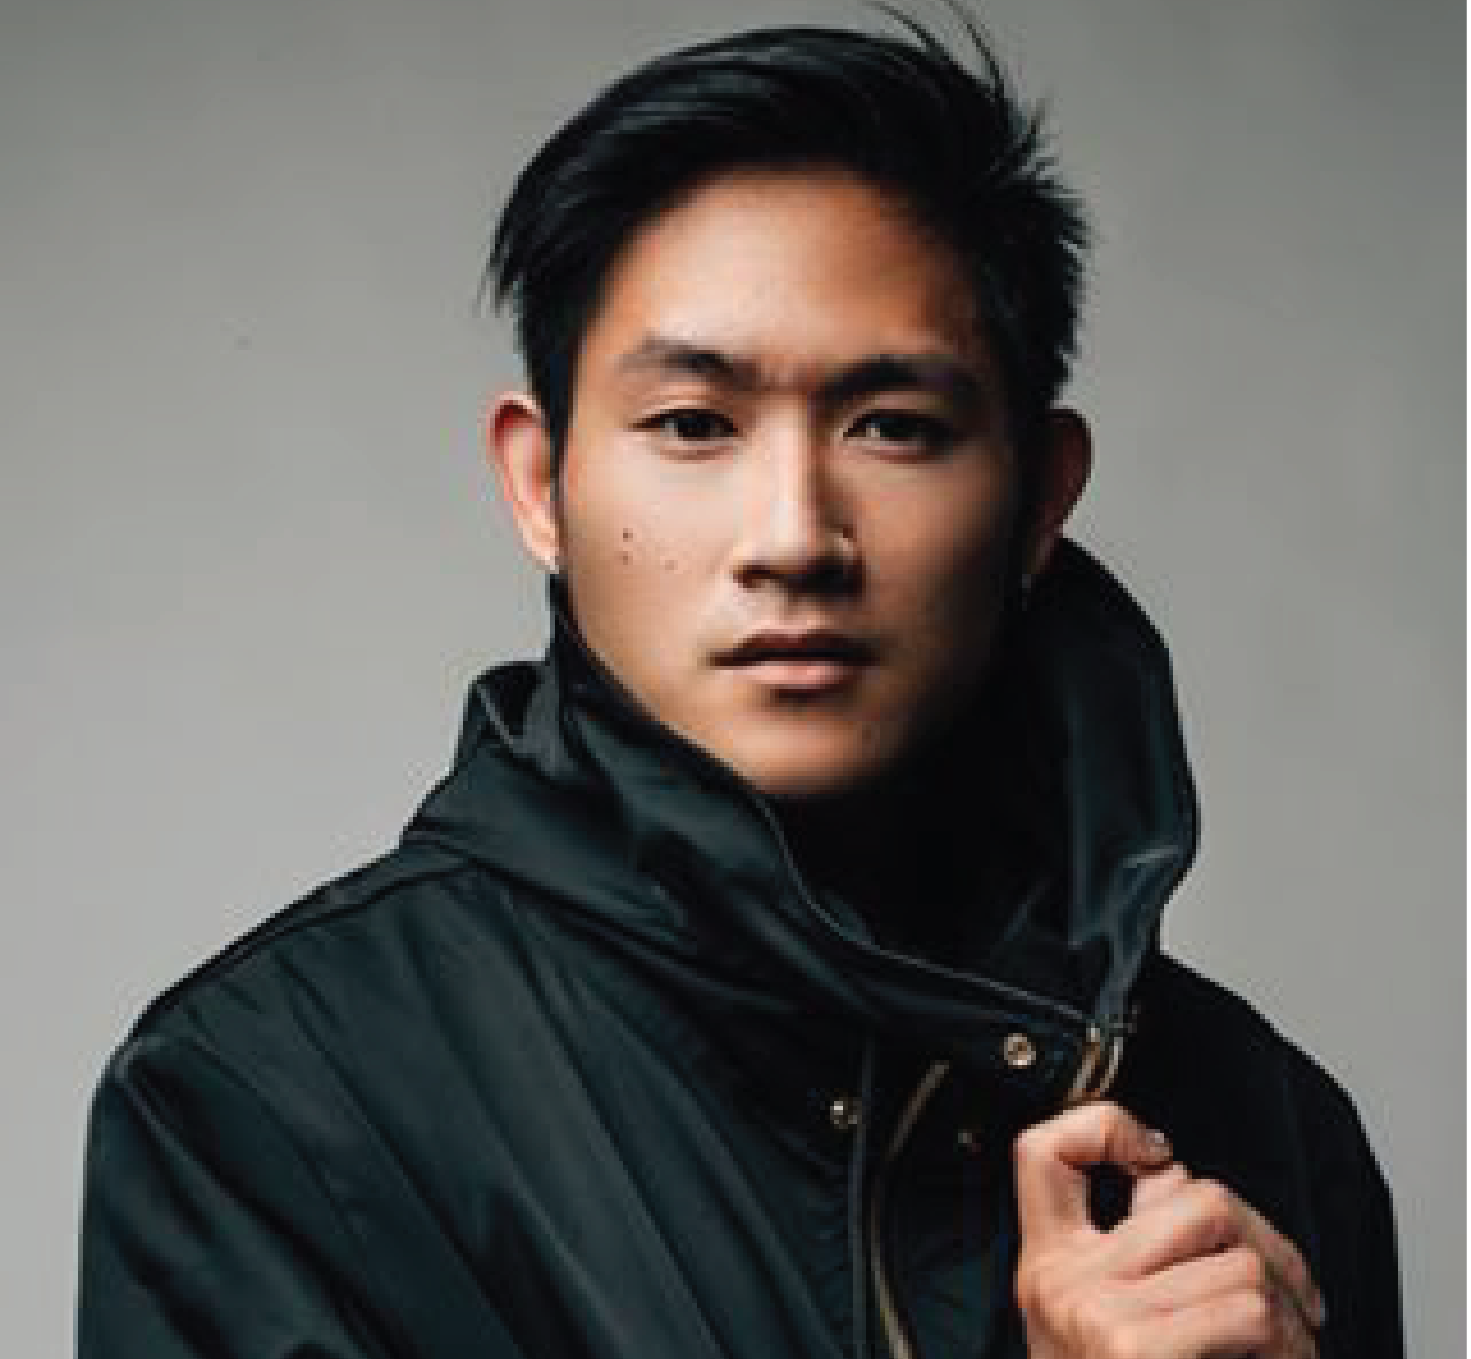
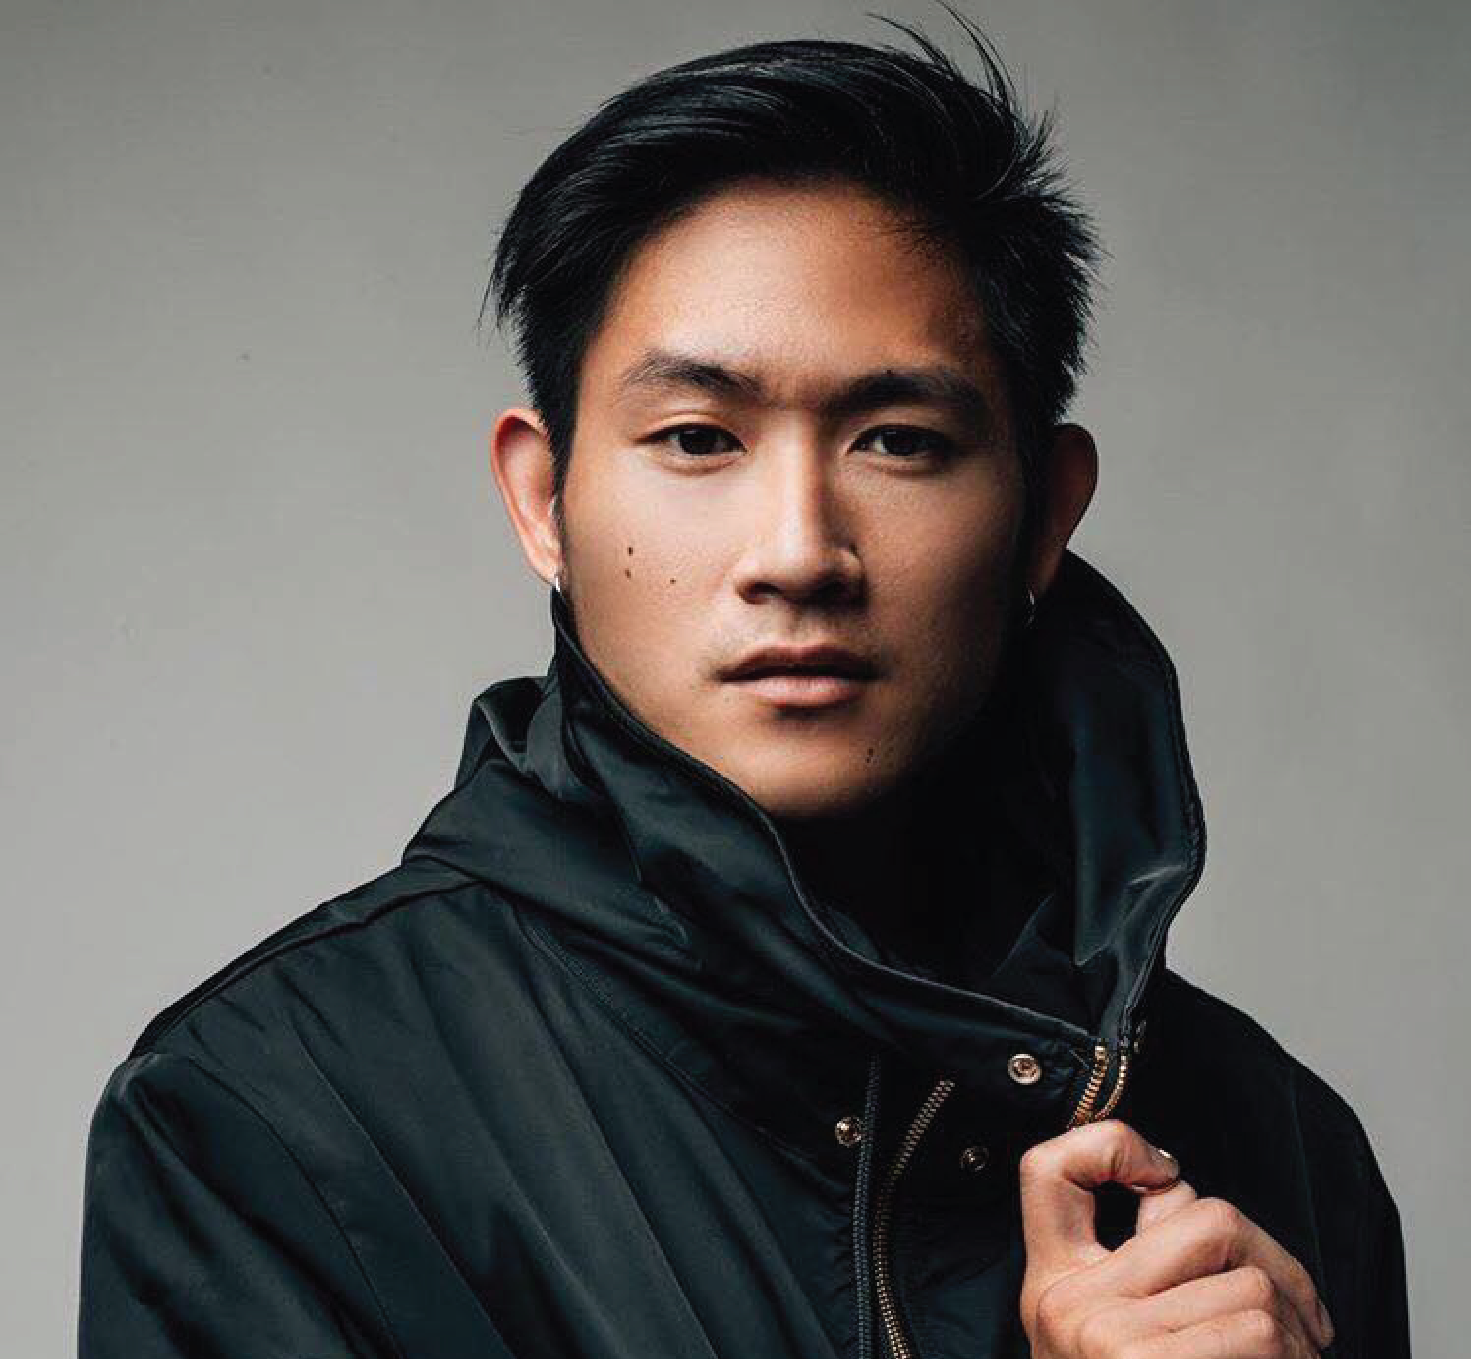
oct 30 push - adding/updating missing teacher photos

diff --git a/support.html b/support.html
@@ -61,6 +61,7 @@
 							<p>Lorem ipsum dolor sit amet, consectetur adipiscing elit. Duis dapibus rutrum facilisis. Class aptent taciti sociosqu ad litora torquent per conubia nostra, per inceptos himenaeos. Etiam tristique libero eu nibh porttitor fermentum. Nullam venenatis erat id vehicula viverra. Nunc ultrices eros ut ultricies condimentum. Mauris risus lacus, blandit sit amet venenatis non, bibendum vitae dolor. Nunc lorem mauris, fringilla in aliquam at, euismod in lectus. Pellentesque habitant morbi tristique senectus et netus et malesuada fames ac turpis egestas. In non lorem sit amet elit placerat maximus. Pellentesque aliquam maximus risus, vel venenatis mauris vehicula hendrerit.</p>
 							<p>Interdum et malesuada fames ac ante ipsum primis in faucibus. Pellentesque venenatis dolor imperdiet dolor mattis sagittis. Praesent rutrum sem diam, vitae egestas enim auctor sit amet. Pellentesque leo mauris, consectetur id ipsum sit amet, fersapien risus, commodo eget turpis at, elementum convallis elit. Pellentesque enim turpis, hendrerit tristique lorem ipsum dolor.</p>
 
+                            <a href="#" class="button primary">Primary</a></li>
 						</div>
 					</div>
 

diff --git a/season1.html b/season1.html
@@ -692,7 +692,7 @@
 
                                 <article class="style12">
 									<span class="image">
-										<img src="images/pic09.jpg" alt="" />
+										<img src="images/teacher/season1/aggie-01.png" alt="" />
 									</span>
 									<a href="https://instagram.com/aggieloyola">
 										<h2>Aggie Loyola</h2>
